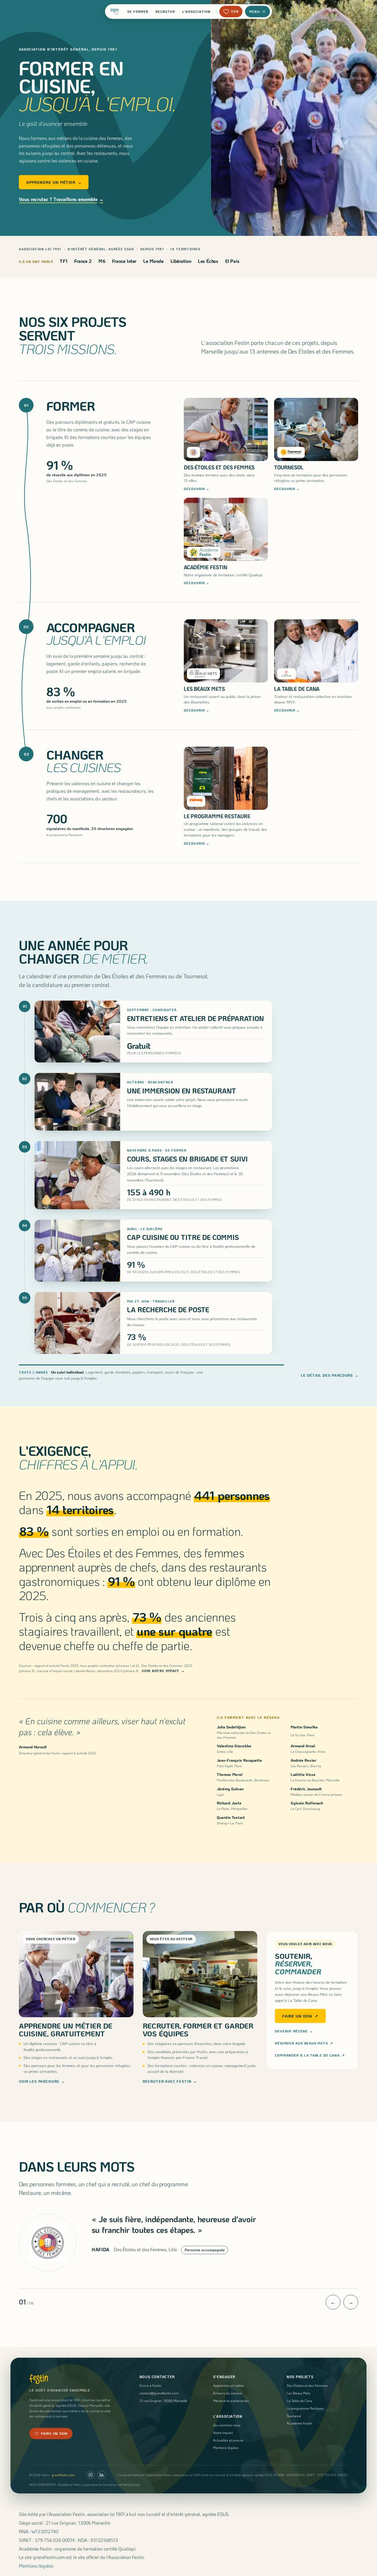
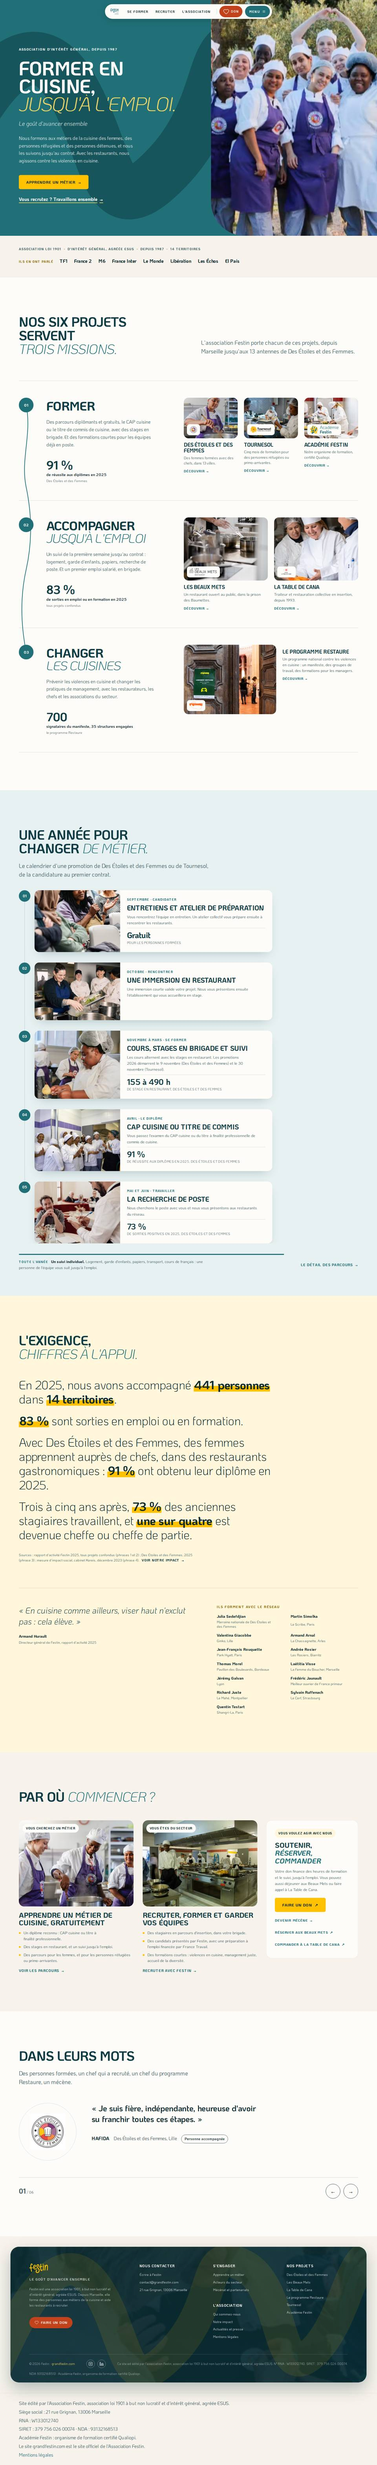
Accueil : grille des projets selon leur nombre ; rapport de déploiement
- Former (3 projets) sur trois colonnes, Changer les cuisines (1 projet) en
  carte horizontale : plus de carte orpheline.
- RAPPORT-DEPLOIEMENT.md : ce qui a changé, ce qui est vérifié, ce qui reste.

Claude-Session: https://claude.ai/code/session_01XDSEYC2wQcKYZD2hZfQmdS

diff --git a/build/HomeB.js b/build/HomeB.js
@@ -1,2 +1,2 @@
 /* généré depuis components/HomeB.jsx par tools/build.sh — ne pas éditer */
-function _extends(){return _extends=Object.assign?Object.assign.bind():function(n){for(var e=1;e<arguments.length;e++){var t=arguments[e];for(var r in t)({}).hasOwnProperty.call(t,r)&&(n[r]=t[r]);}return n;},_extends.apply(null,arguments);}function _toConsumableArray(r){return _arrayWithoutHoles(r)||_iterableToArray(r)||_unsupportedIterableToArray(r)||_nonIterableSpread();}function _nonIterableSpread(){throw new TypeError("Invalid attempt to spread non-iterable instance.\nIn order to be iterable, non-array objects must have a [Symbol.iterator]() method.");}function _unsupportedIterableToArray(r,a){if(r){if("string"==typeof r)return _arrayLikeToArray(r,a);var t={}.toString.call(r).slice(8,-1);return"Object"===t&&r.constructor&&(t=r.constructor.name),"Map"===t||"Set"===t?Array.from(r):"Arguments"===t||/^(?:Ui|I)nt(?:8|16|32)(?:Clamped)?Array$/.test(t)?_arrayLikeToArray(r,a):void 0;}}function _iterableToArray(r){if("undefined"!=typeof Symbol&&null!=r[Symbol.iterator]||null!=r["@@iterator"])return Array.from(r);}function _arrayWithoutHoles(r){if(Array.isArray(r))return _arrayLikeToArray(r);}function _arrayLikeToArray(r,a){(null==a||a>r.length)&&(a=r.length);for(var e=0,n=Array(a);e<a;e++)n[e]=r[e];return n;}var _React=React,useEffect=_React.useEffect,useRef=_React.useRef;var IMG=function IMG(p){return /%[0-9A-Fa-f]{2}/.test(p)?p:encodeURI(p);};function HomeB(){var rootRef=useRef(null);useEffect(function(){var root=rootRef.current;var gsap=window.gsap,ST=window.ScrollTrigger;var reduce=window.FESTIN_RM?window.FESTIN_RM():false;var splitWords=function splitWords(el){if(el.dataset.split==='1')return;var _walk=function walk(node){_toConsumableArray(node.childNodes).forEach(function(c){if(c.nodeType===3){var frag=document.createDocumentFragment();c.textContent.split(/(\s+)/).forEach(function(w){if(!w)return;if(/^\s+$/.test(w)){frag.appendChild(document.createTextNode(w));return;}var sp=document.createElement('span');sp.className='w';sp.textContent=w;frag.appendChild(sp);});c.replaceWith(frag);}else if(c.nodeType===1)_walk(c);});};_walk(el);el.dataset.split='1';};var list=root.querySelector('.ac-mis__list');var placeFil=function placeFil(){var ns=list?list.querySelectorAll('.ac-mis__n'):[];if(ns.length<2)return;var L=list.getBoundingClientRect(),a=ns[0].getBoundingClientRect(),b=ns[ns.length-1].getBoundingClientRect();var top=a.top-L.top+a.height/2,bottom=b.top-L.top+b.height/2;list.style.setProperty('--fil-top',top+'px');list.style.setProperty('--fil-h',bottom-top+'px');};placeFil();var roFil=new ResizeObserver(placeFil);if(list)roFil.observe(list);if(reduce||!gsap||!ST){root.querySelectorAll('.reveal').forEach(function(el){return el.classList.add('is-in');});root.querySelectorAll('.ac-mis__item, .ac-pv__line').forEach(function(el){return el.classList.add('is-on');});return function(){return roFil.disconnect();};}var M=window.FESTIN_MOTION;var ctx=gsap.context(function(){gsap.timeline({defaults:{ease:M.ease,duration:M.dur.title}}).from('.ac-hero__t .ln > span',{yPercent:105,stagger:0.12},0.15).from('.ac-hero__kicker, .ac-hero__sig, .ac-hero__lede, .ac-hero__cta',{y:M.y,autoAlpha:0,stagger:M.stagger},0.45).from('.ac-hero__media',{clipPath:'inset(8% 0% 8% 18% round 48px)',duration:1.4},0.1).from('.ac-hero__media img',{scale:1.12,duration:1.8},0.1);gsap.to('.ac-hero__media img',{yPercent:6,ease:'none',scrollTrigger:{trigger:'.ac-hero',start:'top top',end:'bottom top',scrub:true}});gsap.from('.ac-conf__media li',{y:16,autoAlpha:0,stagger:0.06,duration:M.dur.reveal,scrollTrigger:{trigger:'.ac-conf',start:'top 88%',once:true}});var fil=root.querySelector('.ac-mis__fil path');if(fil){var L=fil.getTotalLength();gsap.fromTo(fil,{strokeDasharray:L,strokeDashoffset:L},{strokeDashoffset:0,ease:'none',scrollTrigger:{trigger:'.ac-mis__list',start:'top 70%',end:'bottom 70%',scrub:0.6}});}root.querySelectorAll('.ac-mis__item').forEach(function(it){ST.create({trigger:it,start:'top 70%',onEnter:function onEnter(){return it.classList.add('is-on');},onLeaveBack:function onLeaveBack(){return it.classList.remove('is-on');}});gsap.from(it.querySelectorAll('.ac-proj'),{y:40,autoAlpha:0,stagger:0.1,duration:M.dur.reveal,scrollTrigger:{trigger:it,start:'top 75%',once:true}});});root.querySelectorAll('.ac-pv__line').forEach(function(line){splitWords(line);var words=line.querySelectorAll('.w');gsap.timeline({scrollTrigger:{trigger:line,start:'top 82%',end:'top 42%',scrub:0.5,onEnter:function onEnter(){return line.classList.add('is-on');}}}).fromTo(words,{opacity:0.16},{opacity:1,stagger:0.04,ease:'none'});});root.querySelectorAll('.reveal').forEach(function(el){return ST.create({trigger:el,start:'top 86%',once:true,onEnter:function onEnter(){return el.classList.add('is-in');}});});},root);ST.refresh();return function(){roFil.disconnect();ctx.revert();};},[]);var D=window.FESTIN_DATA;var H=D.home;var byId=function byId(id){return D.projets.find(function(p){return p.id===id;})||{};};var presseHref=function presseHref(source){var a=(D.presse||[]).find(function(x){return x.source===source;});return a?a.href:null;};var lienDon=function lienDon(href){return href==='don'?D.donation:href;};return React.createElement("div",{className:"pageAccueil",ref:rootRef},React.createElement("header",{className:"ac-hero on-dark",id:"hero"},React.createElement(window.Trait,{className:"ac-hero__trait",width:150,delay:0.2}),React.createElement("div",{className:"wrap ac-hero__grid"},React.createElement("div",{className:"ac-hero__txt"},React.createElement("span",{className:"kicker ac-hero__kicker"},H.hero.kicker),React.createElement("h1",{className:"ac-hero__t"},React.createElement("span",{className:"ln"},React.createElement("span",null,H.hero.title)),React.createElement("span",{className:"ln"},React.createElement("span",null,React.createElement("em",null,H.hero.titleAccent)))),React.createElement("p",{className:"ac-hero__sig"},H.hero.signature),React.createElement("p",{className:"ac-hero__lede"},H.hero.lede),React.createElement("div",{className:"ac-hero__cta"},React.createElement("a",{className:"btnb btnb--gold",href:H.hero.ctaPrimary.href},H.hero.ctaPrimary.label," ",React.createElement("span",{className:"arrow","aria-hidden":"true"},"\u2192")),React.createElement("a",{className:"ac-hero__lnk",href:H.hero.ctaSecondary.href},H.hero.ctaSecondary.label," ",React.createElement("span",{className:"arrow","aria-hidden":"true"},"\u2192"))))),React.createElement("figure",{className:"ac-hero__media"},React.createElement(window.Picture,{src:H.hero.img,alt:H.hero.imgAlt,sizes:"(max-width: 900px) 100vw, 44vw",loading:"eager",fetchPriority:"high"}))),React.createElement("section",{className:"ac-conf","aria-label":"L'association en bref"},React.createElement("div",{className:"wrap ac-conf__row"},React.createElement("ul",{className:"ac-conf__statuts"},H.confiance.statuts.map(function(t){return React.createElement("li",{key:t},t);})),React.createElement("div",{className:"ac-conf__presse"},React.createElement("span",{className:"ac-conf__label"},H.confiance.presseLabel),React.createElement("ul",{className:"ac-conf__media"},H.confiance.medias.map(function(m){var href=presseHref(m.source);return React.createElement("li",{key:m.nom},href?React.createElement("a",{href:href,target:"_blank",rel:"noopener noreferrer"},m.nom):m.nom);}))))),React.createElement("section",{className:"ac-mis",id:"missions","aria-labelledby":"ac-mis-t"},React.createElement("div",{className:"wrap"},React.createElement("div",{className:"ac-mis__head reveal"},React.createElement("h2",{className:"ac-h2",id:"ac-mis-t"},H.missions.title," ",React.createElement("em",null,H.missions.titleAccent)),React.createElement("p",{className:"ac-lede"},H.missions.lede)),React.createElement("ol",{className:"ac-mis__list"},React.createElement("svg",{className:"ac-mis__fil",viewBox:"0 0 40 1000",preserveAspectRatio:"none","aria-hidden":"true",focusable:"false"},React.createElement("path",{d:"M20 0 C 36 120 4 220 20 333 S 36 560 20 666 S 4 880 20 1000",fill:"none",vectorEffect:"non-scaling-stroke"})),H.missions.items.map(function(m,i){return React.createElement("li",{className:"ac-mis__item",key:m.key},React.createElement("span",{className:"ac-mis__n","aria-hidden":"true"},String(i+1).padStart(2,'0')),React.createElement("div",{className:"ac-mis__txt"},React.createElement("h3",{className:"ac-mis__t"},m.title,m.titleAccent&&React.createElement(React.Fragment,null," ",React.createElement("em",null,m.titleAccent))),React.createElement("p",null,m.text),React.createElement("p",{className:"ac-mis__fait"},React.createElement("strong",null,m.fait.n)," ",React.createElement("span",null,m.fait.t)," ",React.createElement("small",null,m.fait.p))),React.createElement("ul",{className:"ac-mis__projets"},m.projets.map(function(pr){var p=byId(pr.id);var name=pr.name||p.shortTitle;var logo=pr.logo||p.logo;return React.createElement("li",{key:pr.id},React.createElement("a",{className:"ac-proj",href:pr.href||'#/projets/'+pr.id},React.createElement("span",{className:"ac-proj__img"},React.createElement(window.Picture,{src:pr.img,alt:"",sizes:"(max-width: 700px) 100vw, 26vw"}),logo&&React.createElement("span",{className:"ac-proj__logo"},React.createElement("img",{src:IMG(logo),alt:"",loading:"lazy"}))),React.createElement("span",{className:"ac-proj__name"},name),React.createElement("span",{className:"ac-proj__line"},pr.line),React.createElement("span",{className:"ac-proj__go","aria-hidden":"true"},"D\xE9couvrir ",React.createElement("span",{className:"arrow"},"\u2192"))));})));})))),React.createElement(window.Frise,{id:"parcours",tone:"tint",title:H.frise.title,accent:H.frise.titleAccent,lede:H.frise.lede,steps:H.frise.steps,rail:H.frise.rail,cta:H.frise.cta}),React.createElement("section",{className:"ac-pv","aria-labelledby":"ac-pv-t"},React.createElement("div",{className:"wrap"},React.createElement("h2",{className:"ac-h2 reveal",id:"ac-pv-t"},H.preuve.title," ",React.createElement("em",null,H.preuve.titleAccent)),React.createElement("div",{className:"ac-pv__lines"},H.preuve.lignes.map(function(l,i){return React.createElement("p",{className:"ac-pv__line",key:i,dangerouslySetInnerHTML:{__html:l}});})),React.createElement("p",{className:"ac-pv__src"},H.preuve.sources," ",React.createElement("a",{className:"lnk",href:H.preuve.lien.href},H.preuve.lien.label," ",React.createElement("span",{className:"arrow","aria-hidden":"true"},"\u2192"))),React.createElement("div",{className:"ac-pv__foot"},React.createElement("figure",{className:"ac-pv__quote reveal"},React.createElement("blockquote",null,React.createElement("p",null,"\xAB ",H.preuve.citation.text," \xBB")),React.createElement("figcaption",null,React.createElement("b",null,H.preuve.citation.auteur)," ",React.createElement("span",null,H.preuve.citation.role))),React.createElement("div",{className:"ac-pv__chefs reveal"},React.createElement("h3",{className:"ac-pv__chefsT"},H.preuve.chefsTitre),React.createElement("ul",null,[H.preuve.marraine].concat(_toConsumableArray(D.about.chefs)).map(function(c){return React.createElement("li",{key:c.name},React.createElement("b",null,c.name)," ",React.createElement("span",null,c.place));})))))),React.createElement("section",{className:"ac-portes",id:"portes","aria-labelledby":"ac-portes-t"},React.createElement("div",{className:"wrap"},React.createElement("h2",{className:"ac-h2 reveal",id:"ac-portes-t"},H.portes.title," ",React.createElement("em",null,H.portes.titleAccent)),React.createElement("div",{className:"ac-portes__grid"},H.portes.cards.map(function(c){return React.createElement("a",{key:c.href,href:c.href,className:"ac-porte reveal"},React.createElement("span",{className:"ac-porte__img"},React.createElement(window.Picture,{src:c.img,alt:"",sizes:"(max-width: 820px) 100vw, 38vw"}),React.createElement("span",{className:"ac-porte__tag"},c.tag)),React.createElement("span",{className:"ac-porte__t"},c.title),React.createElement("ul",{className:"ac-porte__pts"},c.pts.map(function(pt){return React.createElement("li",{key:pt},pt);})),React.createElement("span",{className:"lnk ac-porte__go"},c.cta," ",React.createElement("span",{className:"arrow","aria-hidden":"true"},"\u2192")));}),React.createElement("div",{className:"ac-agir reveal"},React.createElement("span",{className:"ac-porte__tag ac-porte__tag--flat"},H.portes.agir.tag),React.createElement("h3",{className:"ac-agir__t"},H.portes.agir.title," ",React.createElement("em",null,H.portes.agir.titleAccent)),React.createElement("p",null,H.portes.agir.text),React.createElement("ul",{className:"ac-agir__links"},H.portes.agir.links.map(function(l){return React.createElement("li",{key:l.label},React.createElement("a",_extends({className:l.primary?'btnb btnb--gold':'lnk',href:lienDon(l.href)},l.external||l.href==='don'?{target:'_blank',rel:'noopener noreferrer'}:{}),l.label," ",React.createElement("span",{className:"arrow","aria-hidden":"true"},l.external||l.href==='don'?'↗':'→')));})))))),React.createElement("section",{className:"ac-quotes",id:"quotes","aria-labelledby":"ac-quotes-t"},React.createElement("div",{className:"wrap"},React.createElement("h2",{className:"ac-h2 reveal",id:"ac-quotes-t"},H.quotes.title),React.createElement("p",{className:"ac-lede reveal"},H.quotes.lede),React.createElement(window.TestiCarousel,{label:"T\xE9moignages",items:H.quotes.cards.map(function(c){return{name:c.name,meta:c.role,quote:c.q,chip:c.chip,logo:c.logo};})}))));}window.HomeB=HomeB;
+function _extends(){return _extends=Object.assign?Object.assign.bind():function(n){for(var e=1;e<arguments.length;e++){var t=arguments[e];for(var r in t)({}).hasOwnProperty.call(t,r)&&(n[r]=t[r]);}return n;},_extends.apply(null,arguments);}function _toConsumableArray(r){return _arrayWithoutHoles(r)||_iterableToArray(r)||_unsupportedIterableToArray(r)||_nonIterableSpread();}function _nonIterableSpread(){throw new TypeError("Invalid attempt to spread non-iterable instance.\nIn order to be iterable, non-array objects must have a [Symbol.iterator]() method.");}function _unsupportedIterableToArray(r,a){if(r){if("string"==typeof r)return _arrayLikeToArray(r,a);var t={}.toString.call(r).slice(8,-1);return"Object"===t&&r.constructor&&(t=r.constructor.name),"Map"===t||"Set"===t?Array.from(r):"Arguments"===t||/^(?:Ui|I)nt(?:8|16|32)(?:Clamped)?Array$/.test(t)?_arrayLikeToArray(r,a):void 0;}}function _iterableToArray(r){if("undefined"!=typeof Symbol&&null!=r[Symbol.iterator]||null!=r["@@iterator"])return Array.from(r);}function _arrayWithoutHoles(r){if(Array.isArray(r))return _arrayLikeToArray(r);}function _arrayLikeToArray(r,a){(null==a||a>r.length)&&(a=r.length);for(var e=0,n=Array(a);e<a;e++)n[e]=r[e];return n;}var _React=React,useEffect=_React.useEffect,useRef=_React.useRef;var IMG=function IMG(p){return /%[0-9A-Fa-f]{2}/.test(p)?p:encodeURI(p);};function HomeB(){var rootRef=useRef(null);useEffect(function(){var root=rootRef.current;var gsap=window.gsap,ST=window.ScrollTrigger;var reduce=window.FESTIN_RM?window.FESTIN_RM():false;var splitWords=function splitWords(el){if(el.dataset.split==='1')return;var _walk=function walk(node){_toConsumableArray(node.childNodes).forEach(function(c){if(c.nodeType===3){var frag=document.createDocumentFragment();c.textContent.split(/(\s+)/).forEach(function(w){if(!w)return;if(/^\s+$/.test(w)){frag.appendChild(document.createTextNode(w));return;}var sp=document.createElement('span');sp.className='w';sp.textContent=w;frag.appendChild(sp);});c.replaceWith(frag);}else if(c.nodeType===1)_walk(c);});};_walk(el);el.dataset.split='1';};var list=root.querySelector('.ac-mis__list');var placeFil=function placeFil(){var ns=list?list.querySelectorAll('.ac-mis__n'):[];if(ns.length<2)return;var L=list.getBoundingClientRect(),a=ns[0].getBoundingClientRect(),b=ns[ns.length-1].getBoundingClientRect();var top=a.top-L.top+a.height/2,bottom=b.top-L.top+b.height/2;list.style.setProperty('--fil-top',top+'px');list.style.setProperty('--fil-h',bottom-top+'px');};placeFil();var roFil=new ResizeObserver(placeFil);if(list)roFil.observe(list);if(reduce||!gsap||!ST){root.querySelectorAll('.reveal').forEach(function(el){return el.classList.add('is-in');});root.querySelectorAll('.ac-mis__item, .ac-pv__line').forEach(function(el){return el.classList.add('is-on');});return function(){return roFil.disconnect();};}var M=window.FESTIN_MOTION;var ctx=gsap.context(function(){gsap.timeline({defaults:{ease:M.ease,duration:M.dur.title}}).from('.ac-hero__t .ln > span',{yPercent:105,stagger:0.12},0.15).from('.ac-hero__kicker, .ac-hero__sig, .ac-hero__lede, .ac-hero__cta',{y:M.y,autoAlpha:0,stagger:M.stagger},0.45).from('.ac-hero__media',{clipPath:'inset(8% 0% 8% 18% round 48px)',duration:1.4},0.1).from('.ac-hero__media img',{scale:1.12,duration:1.8},0.1);gsap.to('.ac-hero__media img',{yPercent:6,ease:'none',scrollTrigger:{trigger:'.ac-hero',start:'top top',end:'bottom top',scrub:true}});gsap.from('.ac-conf__media li',{y:16,autoAlpha:0,stagger:0.06,duration:M.dur.reveal,scrollTrigger:{trigger:'.ac-conf',start:'top 88%',once:true}});var fil=root.querySelector('.ac-mis__fil path');if(fil){var L=fil.getTotalLength();gsap.fromTo(fil,{strokeDasharray:L,strokeDashoffset:L},{strokeDashoffset:0,ease:'none',scrollTrigger:{trigger:'.ac-mis__list',start:'top 70%',end:'bottom 70%',scrub:0.6}});}root.querySelectorAll('.ac-mis__item').forEach(function(it){ST.create({trigger:it,start:'top 70%',onEnter:function onEnter(){return it.classList.add('is-on');},onLeaveBack:function onLeaveBack(){return it.classList.remove('is-on');}});gsap.from(it.querySelectorAll('.ac-proj'),{y:40,autoAlpha:0,stagger:0.1,duration:M.dur.reveal,scrollTrigger:{trigger:it,start:'top 75%',once:true}});});root.querySelectorAll('.ac-pv__line').forEach(function(line){splitWords(line);var words=line.querySelectorAll('.w');gsap.timeline({scrollTrigger:{trigger:line,start:'top 82%',end:'top 42%',scrub:0.5,onEnter:function onEnter(){return line.classList.add('is-on');}}}).fromTo(words,{opacity:0.16},{opacity:1,stagger:0.04,ease:'none'});});root.querySelectorAll('.reveal').forEach(function(el){return ST.create({trigger:el,start:'top 86%',once:true,onEnter:function onEnter(){return el.classList.add('is-in');}});});},root);ST.refresh();return function(){roFil.disconnect();ctx.revert();};},[]);var D=window.FESTIN_DATA;var H=D.home;var byId=function byId(id){return D.projets.find(function(p){return p.id===id;})||{};};var presseHref=function presseHref(source){var a=(D.presse||[]).find(function(x){return x.source===source;});return a?a.href:null;};var lienDon=function lienDon(href){return href==='don'?D.donation:href;};return React.createElement("div",{className:"pageAccueil",ref:rootRef},React.createElement("header",{className:"ac-hero on-dark",id:"hero"},React.createElement(window.Trait,{className:"ac-hero__trait",width:150,delay:0.2}),React.createElement("div",{className:"wrap ac-hero__grid"},React.createElement("div",{className:"ac-hero__txt"},React.createElement("span",{className:"kicker ac-hero__kicker"},H.hero.kicker),React.createElement("h1",{className:"ac-hero__t"},React.createElement("span",{className:"ln"},React.createElement("span",null,H.hero.title)),React.createElement("span",{className:"ln"},React.createElement("span",null,React.createElement("em",null,H.hero.titleAccent)))),React.createElement("p",{className:"ac-hero__sig"},H.hero.signature),React.createElement("p",{className:"ac-hero__lede"},H.hero.lede),React.createElement("div",{className:"ac-hero__cta"},React.createElement("a",{className:"btnb btnb--gold",href:H.hero.ctaPrimary.href},H.hero.ctaPrimary.label," ",React.createElement("span",{className:"arrow","aria-hidden":"true"},"\u2192")),React.createElement("a",{className:"ac-hero__lnk",href:H.hero.ctaSecondary.href},H.hero.ctaSecondary.label," ",React.createElement("span",{className:"arrow","aria-hidden":"true"},"\u2192"))))),React.createElement("figure",{className:"ac-hero__media"},React.createElement(window.Picture,{src:H.hero.img,alt:H.hero.imgAlt,sizes:"(max-width: 900px) 100vw, 44vw",loading:"eager",fetchPriority:"high"}))),React.createElement("section",{className:"ac-conf","aria-label":"L'association en bref"},React.createElement("div",{className:"wrap ac-conf__row"},React.createElement("ul",{className:"ac-conf__statuts"},H.confiance.statuts.map(function(t){return React.createElement("li",{key:t},t);})),React.createElement("div",{className:"ac-conf__presse"},React.createElement("span",{className:"ac-conf__label"},H.confiance.presseLabel),React.createElement("ul",{className:"ac-conf__media"},H.confiance.medias.map(function(m){var href=presseHref(m.source);return React.createElement("li",{key:m.nom},href?React.createElement("a",{href:href,target:"_blank",rel:"noopener noreferrer"},m.nom):m.nom);}))))),React.createElement("section",{className:"ac-mis",id:"missions","aria-labelledby":"ac-mis-t"},React.createElement("div",{className:"wrap"},React.createElement("div",{className:"ac-mis__head reveal"},React.createElement("h2",{className:"ac-h2",id:"ac-mis-t"},H.missions.title," ",React.createElement("em",null,H.missions.titleAccent)),React.createElement("p",{className:"ac-lede"},H.missions.lede)),React.createElement("ol",{className:"ac-mis__list"},React.createElement("svg",{className:"ac-mis__fil",viewBox:"0 0 40 1000",preserveAspectRatio:"none","aria-hidden":"true",focusable:"false"},React.createElement("path",{d:"M20 0 C 36 120 4 220 20 333 S 36 560 20 666 S 4 880 20 1000",fill:"none",vectorEffect:"non-scaling-stroke"})),H.missions.items.map(function(m,i){return React.createElement("li",{className:"ac-mis__item",key:m.key},React.createElement("span",{className:"ac-mis__n","aria-hidden":"true"},String(i+1).padStart(2,'0')),React.createElement("div",{className:"ac-mis__txt"},React.createElement("h3",{className:"ac-mis__t"},m.title,m.titleAccent&&React.createElement(React.Fragment,null," ",React.createElement("em",null,m.titleAccent))),React.createElement("p",null,m.text),React.createElement("p",{className:"ac-mis__fait"},React.createElement("strong",null,m.fait.n)," ",React.createElement("span",null,m.fait.t)," ",React.createElement("small",null,m.fait.p))),React.createElement("ul",{className:'ac-mis__projets ac-mis__projets--n'+m.projets.length,style:{'--n':m.projets.length}},m.projets.map(function(pr){var p=byId(pr.id);var name=pr.name||p.shortTitle;var logo=pr.logo||p.logo;return React.createElement("li",{key:pr.id},React.createElement("a",{className:"ac-proj",href:pr.href||'#/projets/'+pr.id},React.createElement("span",{className:"ac-proj__img"},React.createElement(window.Picture,{src:pr.img,alt:"",sizes:"(max-width: 700px) 100vw, 26vw"}),logo&&React.createElement("span",{className:"ac-proj__logo"},React.createElement("img",{src:IMG(logo),alt:"",loading:"lazy"}))),React.createElement("span",{className:"ac-proj__name"},name),React.createElement("span",{className:"ac-proj__line"},pr.line),React.createElement("span",{className:"ac-proj__go","aria-hidden":"true"},"D\xE9couvrir ",React.createElement("span",{className:"arrow"},"\u2192"))));})));})))),React.createElement(window.Frise,{id:"parcours",tone:"tint",title:H.frise.title,accent:H.frise.titleAccent,lede:H.frise.lede,steps:H.frise.steps,rail:H.frise.rail,cta:H.frise.cta}),React.createElement("section",{className:"ac-pv","aria-labelledby":"ac-pv-t"},React.createElement("div",{className:"wrap"},React.createElement("h2",{className:"ac-h2 reveal",id:"ac-pv-t"},H.preuve.title," ",React.createElement("em",null,H.preuve.titleAccent)),React.createElement("div",{className:"ac-pv__lines"},H.preuve.lignes.map(function(l,i){return React.createElement("p",{className:"ac-pv__line",key:i,dangerouslySetInnerHTML:{__html:l}});})),React.createElement("p",{className:"ac-pv__src"},H.preuve.sources," ",React.createElement("a",{className:"lnk",href:H.preuve.lien.href},H.preuve.lien.label," ",React.createElement("span",{className:"arrow","aria-hidden":"true"},"\u2192"))),React.createElement("div",{className:"ac-pv__foot"},React.createElement("figure",{className:"ac-pv__quote reveal"},React.createElement("blockquote",null,React.createElement("p",null,"\xAB ",H.preuve.citation.text," \xBB")),React.createElement("figcaption",null,React.createElement("b",null,H.preuve.citation.auteur)," ",React.createElement("span",null,H.preuve.citation.role))),React.createElement("div",{className:"ac-pv__chefs reveal"},React.createElement("h3",{className:"ac-pv__chefsT"},H.preuve.chefsTitre),React.createElement("ul",null,[H.preuve.marraine].concat(_toConsumableArray(D.about.chefs)).map(function(c){return React.createElement("li",{key:c.name},React.createElement("b",null,c.name)," ",React.createElement("span",null,c.place));})))))),React.createElement("section",{className:"ac-portes",id:"portes","aria-labelledby":"ac-portes-t"},React.createElement("div",{className:"wrap"},React.createElement("h2",{className:"ac-h2 reveal",id:"ac-portes-t"},H.portes.title," ",React.createElement("em",null,H.portes.titleAccent)),React.createElement("div",{className:"ac-portes__grid"},H.portes.cards.map(function(c){return React.createElement("a",{key:c.href,href:c.href,className:"ac-porte reveal"},React.createElement("span",{className:"ac-porte__img"},React.createElement(window.Picture,{src:c.img,alt:"",sizes:"(max-width: 820px) 100vw, 38vw"}),React.createElement("span",{className:"ac-porte__tag"},c.tag)),React.createElement("span",{className:"ac-porte__t"},c.title),React.createElement("ul",{className:"ac-porte__pts"},c.pts.map(function(pt){return React.createElement("li",{key:pt},pt);})),React.createElement("span",{className:"lnk ac-porte__go"},c.cta," ",React.createElement("span",{className:"arrow","aria-hidden":"true"},"\u2192")));}),React.createElement("div",{className:"ac-agir reveal"},React.createElement("span",{className:"ac-porte__tag ac-porte__tag--flat"},H.portes.agir.tag),React.createElement("h3",{className:"ac-agir__t"},H.portes.agir.title," ",React.createElement("em",null,H.portes.agir.titleAccent)),React.createElement("p",null,H.portes.agir.text),React.createElement("ul",{className:"ac-agir__links"},H.portes.agir.links.map(function(l){return React.createElement("li",{key:l.label},React.createElement("a",_extends({className:l.primary?'btnb btnb--gold':'lnk',href:lienDon(l.href)},l.external||l.href==='don'?{target:'_blank',rel:'noopener noreferrer'}:{}),l.label," ",React.createElement("span",{className:"arrow","aria-hidden":"true"},l.external||l.href==='don'?'↗':'→')));})))))),React.createElement("section",{className:"ac-quotes",id:"quotes","aria-labelledby":"ac-quotes-t"},React.createElement("div",{className:"wrap"},React.createElement("h2",{className:"ac-h2 reveal",id:"ac-quotes-t"},H.quotes.title),React.createElement("p",{className:"ac-lede reveal"},H.quotes.lede),React.createElement(window.TestiCarousel,{label:"T\xE9moignages",items:H.quotes.cards.map(function(c){return{name:c.name,meta:c.role,quote:c.q,chip:c.chip,logo:c.logo};})}))));}window.HomeB=HomeB;

diff --git a/styles/accueil.css b/styles/accueil.css
@@ -277,3 +277,12 @@
   .ac-pv__chefs li{gap:0}
   .ac-pv__chefs span{font-size:12px}
 }
+/* Grille des projets selon leur nombre : 3 → trois colonnes, 1 → carte horizontale */
+@media (min-width:900px){
+  .ac-mis__projets{grid-template-columns:repeat(var(--n,2),minmax(0,1fr))}
+  .ac-mis__projets--n1{grid-template-columns:1fr}
+  .ac-mis__projets--n1 .ac-proj{display:grid;grid-template-columns:minmax(0,1.1fr) minmax(0,.9fr);column-gap:var(--sp-5);row-gap:6px;align-items:start}
+  .ac-mis__projets--n1 .ac-proj__img{grid-row:1 / span 4;margin:0}
+  .ac-mis__projets--n1 .ac-proj__name{align-self:end;padding-top:var(--sp-4)}
+  .ac-mis__projets--n3 .ac-proj__line{font-size:14px}
+}

diff --git a/components/HomeB.jsx b/components/HomeB.jsx
@@ -163,7 +163,7 @@ function HomeB() {
                   <p>{m.text}</p>
                   <p className="ac-mis__fait"><strong>{m.fait.n}</strong> <span>{m.fait.t}</span> <small>{m.fait.p}</small></p>
                 </div>
-                <ul className="ac-mis__projets">
+                <ul className={'ac-mis__projets ac-mis__projets--n' + m.projets.length} style={{ '--n': m.projets.length }}>
                   {m.projets.map((pr) => {
                     const p = byId(pr.id);
                     const name = pr.name || p.shortTitle;

diff --git a/RAPPORT-DEPLOIEMENT.md b/RAPPORT-DEPLOIEMENT.md
@@ -1,0 +1,27 @@
+# Rapport — déploiement de la direction de l'accueil (nuit du 24 au 25/09/2026)
+
+Branche `claude/modest-rubin-fr5kof` (base : `reprise-design`), poussée. Aperçu qui suit chaque push : https://grandfestin-git-claude-modest-rubin-fr5kof-festin12.vercel.app/
+
+Documents : `AUDIT-DEPLOIEMENT.md` (mesures, constats, décisions) · `copywriting/09-journal-deploiement.md` (textes réécrits, sections retirées et où elles sont passées) · `CLAUDE.md` (conventions pour les prochaines sessions) · `captures/` (1440 et 360 px).
+
+## Ce qui a changé
+
+- **Un seul rangement pour tout le site : trois missions** (Former · Accompagner jusqu'à l'emploi · Changer les cuisines), visibles sur l'accueil, l'Association, l'Académie, chaque page projet et le menu.
+- **Pages projet** : un seul gabarit (au lieu de cinq fichiers recopiés), plus courtes, pensées comme des portes d'entrée vers les sites des projets. Plus aucun aplat de couleur dans le corps des pages ; la couleur du projet devient une pastille. Galeries de fin de page gardées, avec pause.
+- **Insertion et Acteurs du secteur** : projets rangés par public, frises partagées, appels finaux clairs.
+- **Association, Impact, Académie, Actualités** : plus de bandes sombres dans le corps de page ; chiffres clés complets sur l'accueil et Impact seulement.
+- **Navigation** : trois liens visibles dans la pastille, menu rangé par public, bouton flottant retiré.
+
+Part de la page en aplat sombre ou saturé (hors pied de page), avant → après : Restaure 71 % → hero seul ; La Table de Cana 60 % → hero seul ; Les Beaux Mets 48 % → hero seul ; Association 32 % et 10 cartes pleines → hero seul, 0 carte pleine.
+
+## Vérifié
+
+20 routes à 390 et 1440 px : aucune erreur JavaScript, aucun débordement horizontal, aucune ressource introuvable, aucun lien interne mort, un seul H1 par page. Audit axe-core (WCAG 2.1 AA) sur 15 routes : contrastes corrigés ; une exception volontaire (noms estompés à l'arrière de la sphère des chefs, effet de profondeur).
+
+## Ce qui vous attend
+
+1. **Valider sur l'aperçu**, en priorité une page projet (Des Étoiles et des Femmes) et la page Insertion.
+2. **Sections retirées** : la liste est dans le journal (restaure : axes et groupes de travail ; Tournesol : bilan détaillé ; Les Beaux Mets : l'équipe). Dites-moi ce que vous voulez rétablir.
+3. **Photos** : antennes (dossier du formulaire vide pour ce compte) et Grand Festin 2025 (introuvables). À déposer dans `images/` ; le site les prend sans changement de code pour les antennes (`FESTIN_DATA.antennesPhotos`).
+4. **Boutons de don** : le corail est assombri (#C2421C) pour être lisible. À valider au regard de la charte.
+5. **Fusion** : rien n'est fusionné dans `main` ni dans `reprise-design`.
